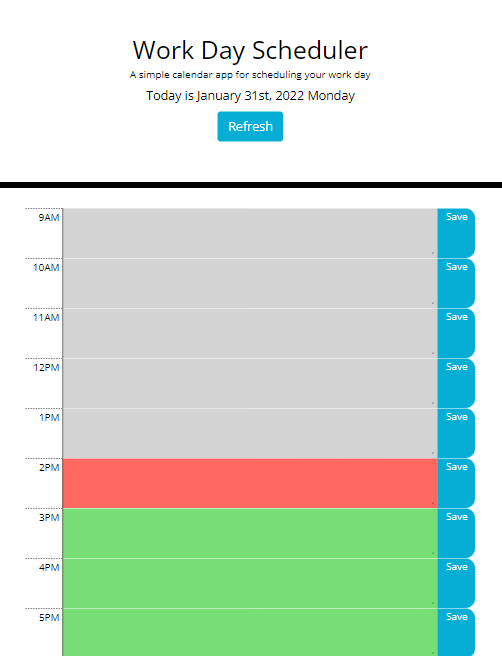
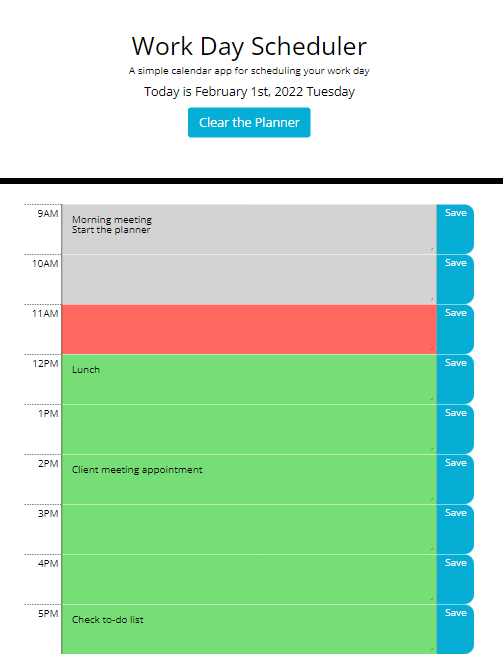
Changed readme.md

diff --git a/index.html b/index.html
@@ -18,7 +18,7 @@
     <h1 class="display-5">Work Day Scheduler</h1>
     <p>A simple calendar app for scheduling your work day</p>
     <p id="currentDay" class="lead"></p>
-    <a id="refresh-button" class="btn refresh-button btn-lg" href="#" role="button">Refresh</a>
+    <a id="refresh-button" class="btn refresh-button btn-lg" href="#" role="button">Clear the Planner</a>
   </header>
 
   <div class="container">

diff --git a/README.md b/README.md
@@ -4,9 +4,9 @@ Bootcamp Week 5: Homework
 
 ## Task Requirement
 
-Create a simple calendar application that allows a user to save events for each hour of the day by modifying a starter code. This app will run in the browser and feature dynamically updated HTML and CSS powered by jQuery.
+This daily planner comes with a starter code. The current day is displayed at the top of the calendar. To create a simple calendar application that allows a user to save events for each hour of the day in the "timeblocks" during standard business hours. This app will run in the browser and feature dynamically updated HTML and CSS powered by jQuery.
 
-You'll need to use the [Moment.js](https://momentjs.com/) library to work with date and time. Be sure to read the documentation carefully and concentrate on using Moment.js in the browser.
+Needs to use the [Moment.js](https://momentjs.com/) library to work with date and time. Be sure to read the documentation carefully and concentrate on using Moment.js in the browser.
 
 ## User Story
 ```
@@ -18,33 +18,17 @@ SO THAT I can manage my time effectively
 ```
 
 ## My Solution
-```
-GIVEN I am using a daily planner to create a schedule
 
-WHEN I open the planner
+I needed to code only in the "timeblocks" for standard business hours (from 9AM to 5PM). /init() function/
 
-THEN the current day is displayed at the top of the calendar
+Each timeblock is color-coded to indicate whether it is in the past, present, or future. /colorPlanner() function/
 
-WHEN I scroll down
+All timeblocks are able to enter an hourly plan or to-do note, then saved by "Save" button. /button click event listener for each hour timeblock/
 
-THEN I am presented with timeblocks for standard business hours
+WHEN the "Save" button for that timeblock has clicked the text for that event is saved in local storage. That way the page is refreshed the saved events persist. Every time the page is refreshed, all color-code classes need to be removed then added to color-code again. Meantime, all the saved to-do notes need to be shown on the timeblocks. /refreshPlanner() function/
 
-WHEN I view the timeblocks for that day
+Also, I added "Clear the Planner" event, it gives a choice if a user wants a fresh start. Because the local storage is used throughout the day there could be a need to clear it all. /clears local storage and todoArray/
 
-THEN each timeblock is color coded to indicate whether it is in the past, present, or future
-
-WHEN I click into a timeblock
-
-THEN I can enter an event
-
-WHEN I click the save button for that timeblock
-
-THEN the text for that event is saved in local storage
-
-WHEN I refresh the page
-
-THEN the saved events persist
-```
 ## Mock-Up
 
 The following picture demonstrates the application appearance:
